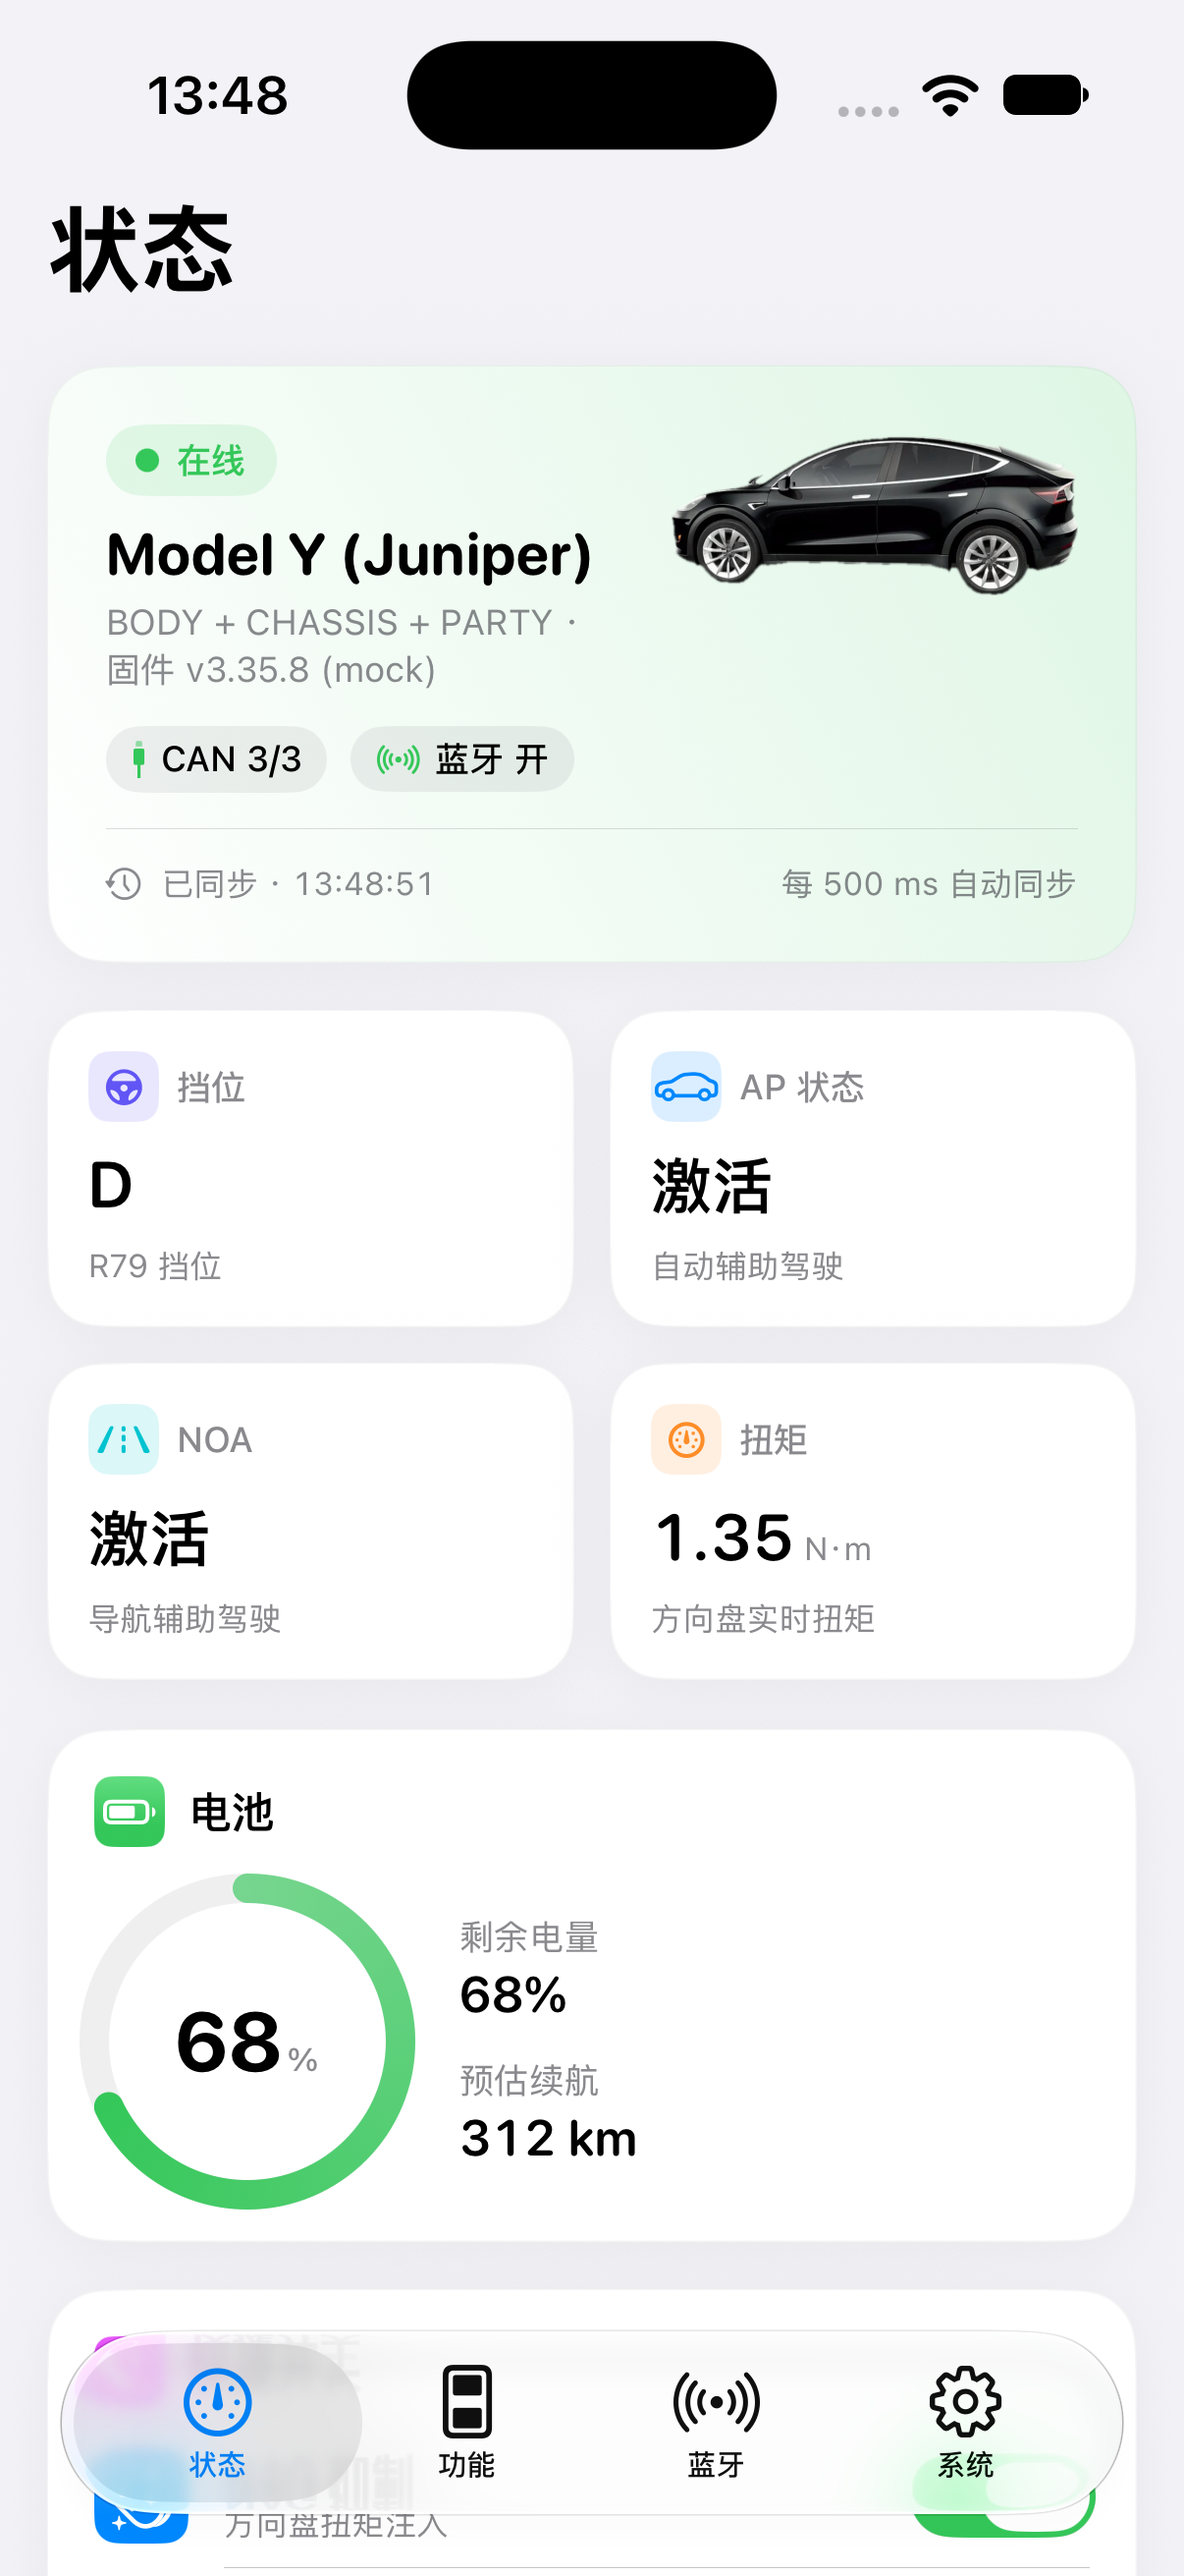
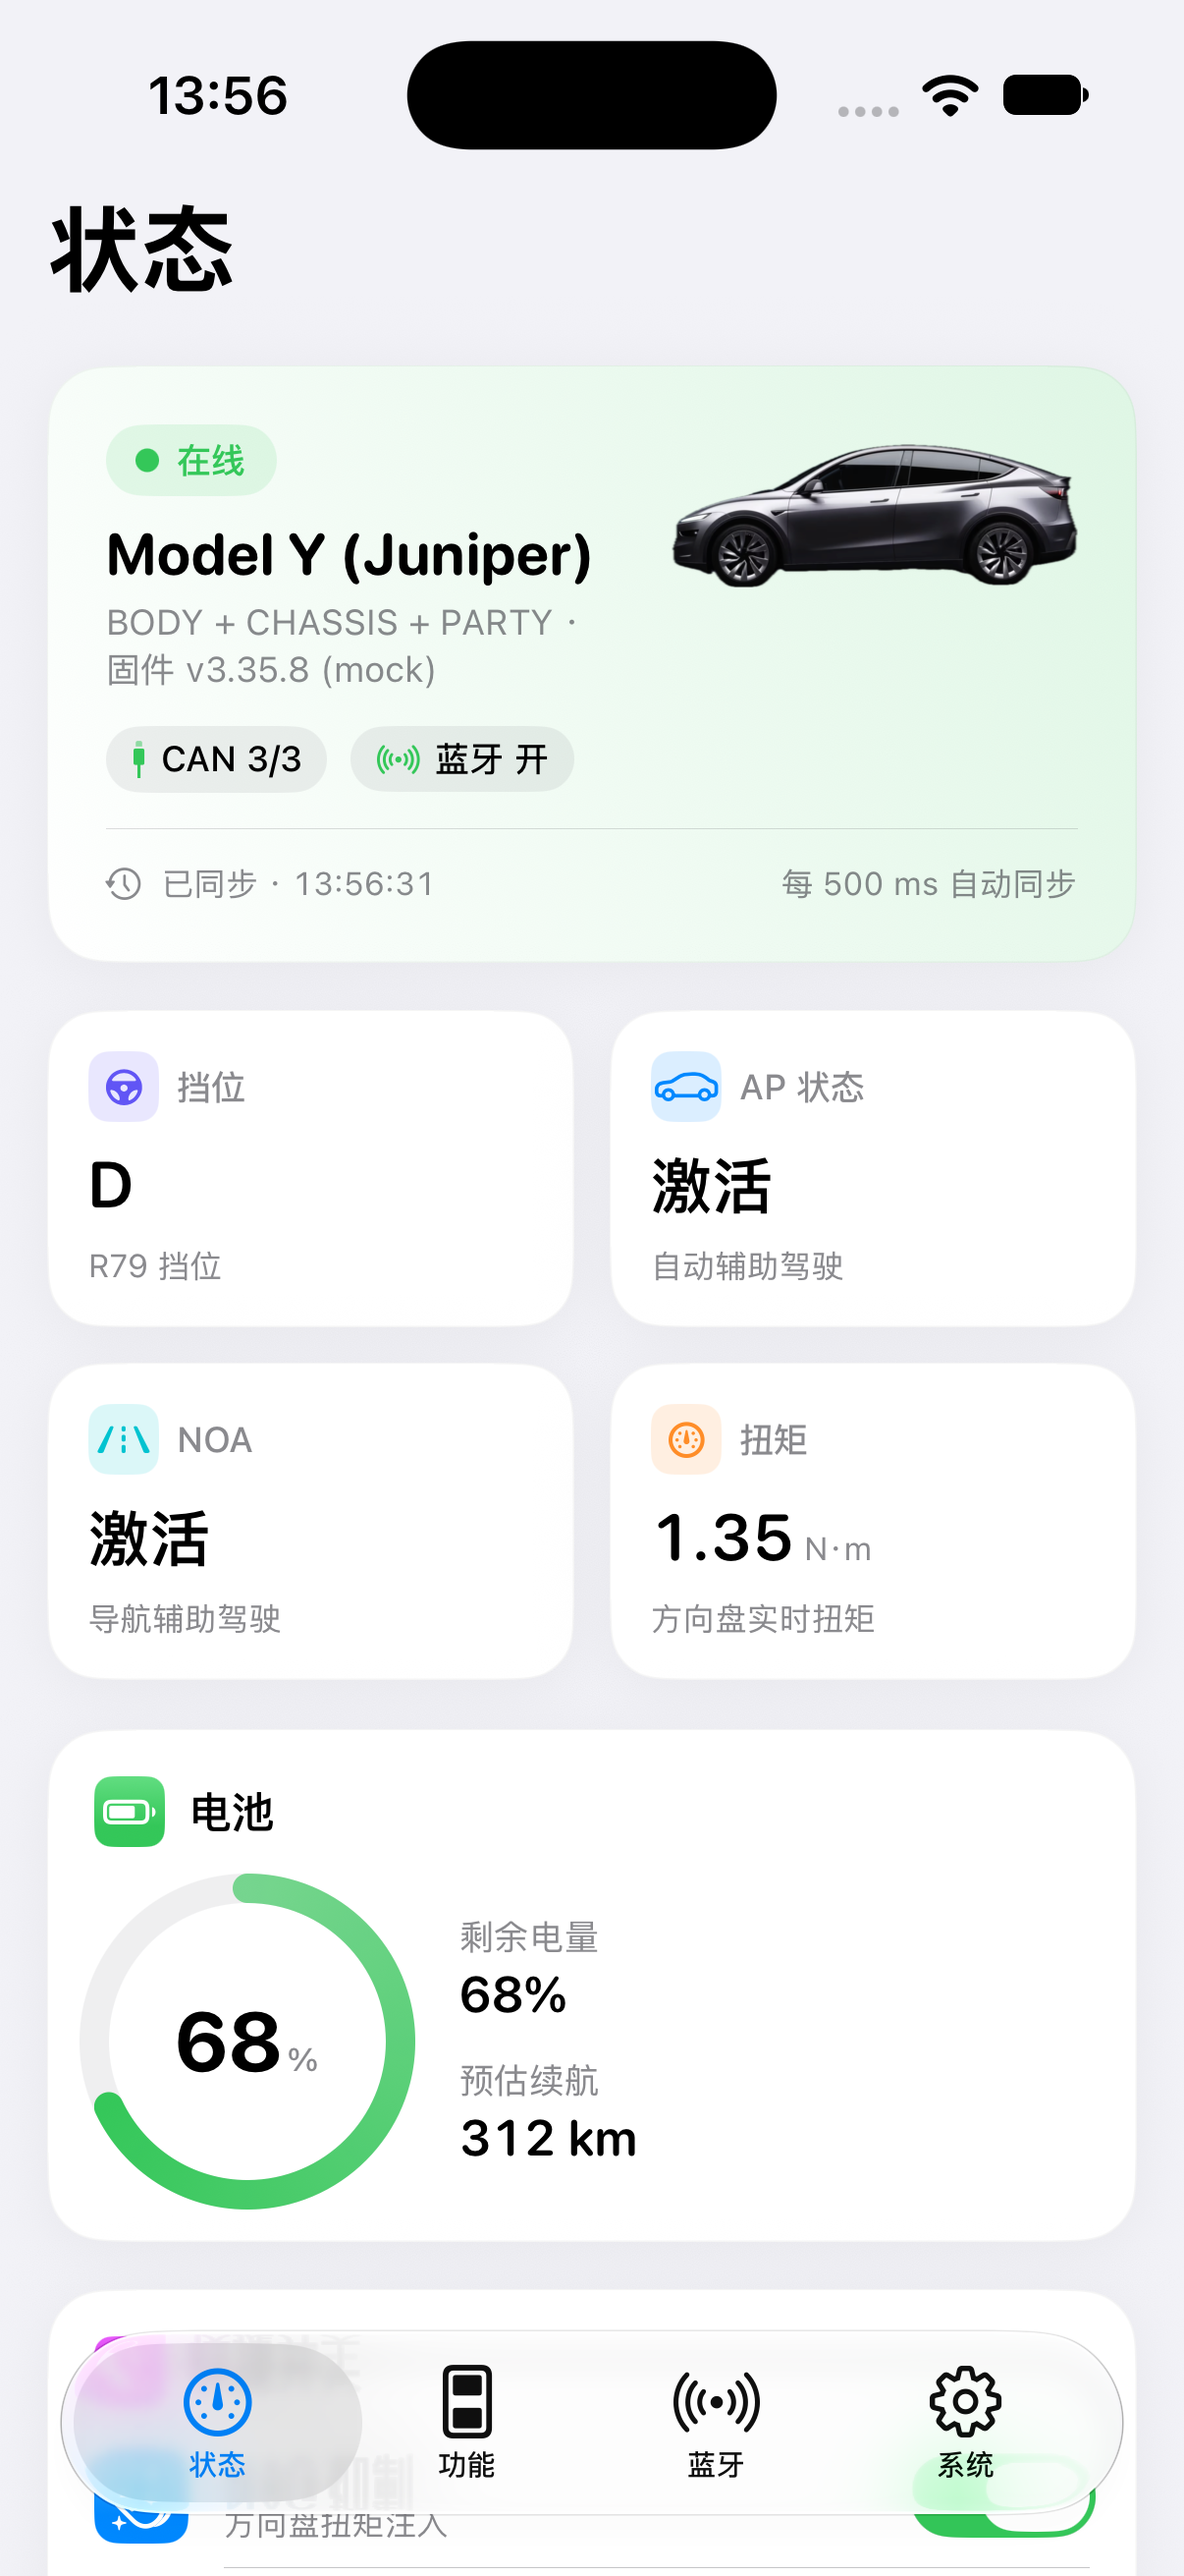
feat(ui): 新款 Model Y（Juniper）使用独立车型图，旧款 Y 保留黑色图（3.56 / 77）

Changed region(s): [[0.5522, 0.1545, 0.9204, 0.2471], [0.1841, 0.0309, 0.2454, 0.0618]]

diff --git a/P4CANCompanion/UI/VehicleArtwork.swift b/P4CANCompanion/UI/VehicleArtwork.swift
@@ -3,11 +3,12 @@ import SwiftUI
 /// 首页车型图像：按当前 profile 显示真实车款渲染图（透明底），
 /// 不再使用通用的 `car.side.fill`，也不再手绘近似轮廓。
 ///
-/// profile 编号：1 Model Y L、2 Model Y Juniper、3 Model Y、
+/// profile 编号：1 Model Y L、2 Model Y Juniper、3 Model Y（旧款）、
 /// 4 Model 3 Highland、5 Model 3、6 Model S/X。
 enum VehicleBodyStyle {
     case model3
     case modelY
+    case modelYJuniper
     case modelYL
     case modelS
     case modelX
@@ -15,11 +16,12 @@ enum VehicleBodyStyle {
     /// profile 优先，其次按名称兜底（离线缓存或旧固件没有 profile id 时）。
     static func resolve(profileID: Int?, name: String?) -> VehicleBodyStyle {
         #if DEBUG
-        // 本地联调：SIMCTL_CHILD_P4CAN_CAR_STYLE=y 可强制某种车身，便于逐车型截图核对。
+        // 本地联调：SIMCTL_CHILD_P4CAN_CAR_STYLE=y|yj|yl|3|s|x 可强制某种车身，便于逐车型截图核对。
         if let forced = ProcessInfo.processInfo.environment["P4CAN_CAR_STYLE"]?.lowercased() {
             switch forced {
             case "3", "model3": return .model3
             case "y", "modely": return .modelY
+            case "yj", "juniper", "modelyjuniper": return .modelYJuniper
             case "yl", "modelyl": return .modelYL
             case "s", "models": return .modelS
             case "x", "modelx": return .modelX
@@ -30,7 +32,8 @@ enum VehicleBodyStyle {
 
         switch profileID {
         case 1: return .modelYL
-        case 2, 3: return .modelY
+        case 2: return .modelYJuniper
+        case 3: return .modelY
         case 4, 5: return .model3
         case 6: return .modelS
         default: break
@@ -38,6 +41,7 @@ enum VehicleBodyStyle {
 
         let text = (name ?? "").lowercased()
         if text.contains("model y l") || text.contains(" yl") { return .modelYL }
+        if text.contains("juniper") { return .modelYJuniper }
         if text.contains("model y") { return .modelY }
         if text.contains("model 3") { return .model3 }
         if text.contains("model x") { return .modelX }
@@ -45,11 +49,12 @@ enum VehicleBodyStyle {
         return .model3
     }
 
-    /// 资源名。五种车款都有独立素材，不再复用。
+    /// 资源名。每种车款都有独立素材。
     var assetName: String {
         switch self {
         case .model3: return "VehicleModel3"
         case .modelY: return "VehicleModelY"
+        case .modelYJuniper: return "VehicleModelYJuniper"
         case .modelYL: return "VehicleModelYL"
         case .modelS: return "VehicleModelS"
         case .modelX: return "VehicleModelX"

diff --git a/build/review/修复记录-2026-11-19.md b/build/review/修复记录-2026-11-19.md
@@ -296,14 +296,14 @@ App：Service Mode 新增「重启修复自检」，展示缓存帧、NVS 落盘
 - T2CAN 3.30.3：状态 CAN 2/2、功能 16 项、T2 专属过滤保留。
 - 版本 3.52 / build 73。
 
-## 二十三、第二十二轮：首页真实车型图（3.55 / build 76）
+## 二十三、第二十二轮：首页真实车型图（3.56 / build 77）
 
 首页车型卡片右上角原来是所有车型共用的 `car.side.fill`；3.53 曾用矢量近似轮廓，效果不合格，
 3.54 改为内置真实车型渲染图（透明底），按 profile 选择对应车款。
 
-- 资源：`Assets.xcassets/VehicleModel3|Y|YL|S|X.imageset`，透明底 PNG，640 px 宽。
-- 映射：profile 1 → Model Y L；2 / 3 → Model Y；4 / 5 → Model 3；6 → Model S；T2 的 6 为 S/X。
-- Model Y L 使用用户提供的银灰渲染图（`VehicleModelYL`）；Model 3 Highland 与 Legacy 仍共用 Model 3 图。
+- 资源：`Assets.xcassets/VehicleModel3|Y|YJuniper|YL|S|X.imageset`，透明底 PNG，640 px 宽。
+- 映射：profile 1 → Model Y L；2 → Model Y Juniper（新款）；3 → Model Y（旧款黑色）；4 / 5 → Model 3；6 → Model S；T2 的 6 为 S/X。
+- Model Y L 和新款 Model Y 使用用户提供的银灰渲染图（`VehicleModelYL` / `VehicleModelYJuniper`）；Model 3 Highland 与 Legacy 仍共用 Model 3 图。
 - 兜底：离线或旧固件没有 profile id 时按 `profileName` 匹配；都没有则显示 Model 3。
 - 首页用 `Image(...).resizable().scaledToFit()` 显示，尺寸 138 × 58，不再绘制矢量。
 - 调试：`SIMCTL_CHILD_P4CAN_CAR_STYLE=3|y|yl|s|x` 可强制车款，便于逐车型截图。

diff --git a/NOTICE.md b/NOTICE.md
@@ -26,7 +26,7 @@ This repository contains or derives from the following projects:
 - Tesla Model 3 / Model Y / Model X side-view renders: StickPNG
   (https://www.stickpng.com/cat/transport/cars/tesla), free for personal use.
 - Tesla Model S side-view render: SeekPNG (https://www.seekpng.com/), personal use.
-- Tesla Model Y L side-view render: provided by the project owner.
+- Tesla Model Y L and new Model Y (Juniper) side-view renders: provided by the project owner.
 - Tesla, Model 3, Model Y, Model S and Model X are trademarks of Tesla, Inc.
   This project is not affiliated with, endorsed by, or sponsored by Tesla.
 - These images are bundled for personal, non-commercial use only.

diff --git a/README.md b/README.md
@@ -10,7 +10,7 @@
 SwiftUI + UIKit，不是网页套壳；所有状态直接来自设备 HTTP API，写入后回读校验。
 
 ![platform](https://img.shields.io/badge/platform-iOS%2017%2B%20%7C%20macOS%2014%2B-blue)
-![version](https://img.shields.io/badge/version-3.55%20(76)-green)
+![version](https://img.shields.io/badge/version-3.56%20(77)-green)
 ![license](https://img.shields.io/badge/license-GPL--3.0-orange)
 
 **下载 / Download：** [Releases](https://github.com/Kaiser-DMr/p4can-companion/releases) · ad-hoc IPA，需要自签（AltStore / Sideloadly）。
